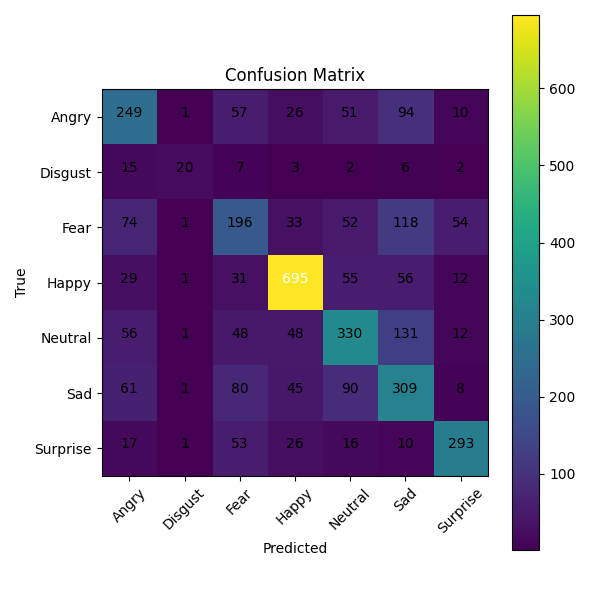
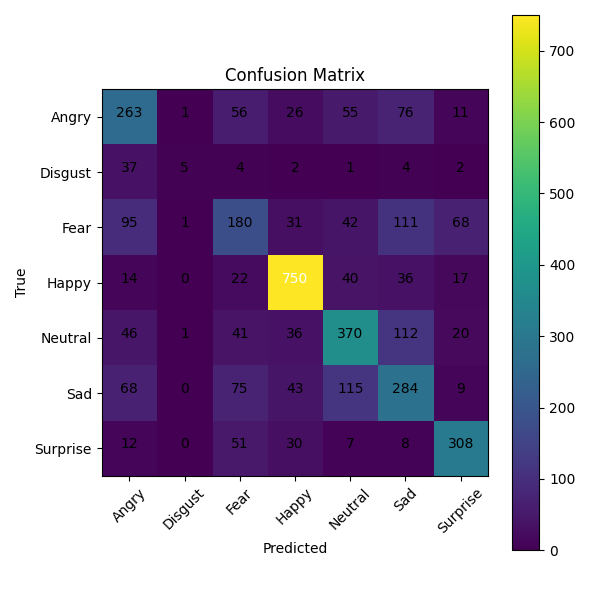
Make scripts path-independent and improve robustness
- Resolve data/model paths relative to the project root so train/test/realtime work from any working directory
- realtime: fall back to default FER-2013 labels when data/ is absent, validate label/output count, and check the camera opened
- train: ensure models/ exists before saving; drop unused import
- requirements: remove conflicting keras pin and unused deps
- Refresh README dependency list and run instructions

diff --git a/src/realtime.py b/src/realtime.py
@@ -1,19 +1,34 @@
-import os, cv2, numpy as np
+import os, sys, cv2, numpy as np
 from tensorflow.keras.models import load_model
+
+# paths anchored to project root so it runs from anywhere
+BASE_DIR = os.path.dirname(os.path.dirname(os.path.abspath(__file__)))
 
 # load model (keras > h5 fallback)
 model = None
-for p in ["../models/emotion_model.keras","../models/emotion_model.h5"]:
+for p in [os.path.join(BASE_DIR, "models", "emotion_model.keras"),
+          os.path.join(BASE_DIR, "models", "emotion_model.h5")]:
     if os.path.exists(p):
         model = load_model(p)
         print(f"Loaded model: {p}")
         break
-assert model is not None, "No saved model found."
+assert model is not None, "No saved model found. Run train.py first."
 
-# class names from your data folder (sorted so it matches generator order)
-data_train = os.path.join("..","data","train")
-EMOTIONS = sorted([d for d in os.listdir(data_train)
-                   if os.path.isdir(os.path.join(data_train,d))])
+# class names from data/train if present (sorted to match the training
+# generator's class order); otherwise fall back to the standard FER-2013
+# labels so the demo still works on a fresh clone (data/ is gitignored).
+FALLBACK_EMOTIONS = ["Angry", "Disgust", "Fear", "Happy", "Neutral", "Sad", "Surprise"]
+data_train = os.path.join(BASE_DIR, "data", "train")
+if os.path.isdir(data_train):
+    EMOTIONS = sorted([d for d in os.listdir(data_train)
+                       if os.path.isdir(os.path.join(data_train, d))])
+else:
+    EMOTIONS = FALLBACK_EMOTIONS
+    print("data/train not found; using default FER-2013 class names.")
+
+if len(EMOTIONS) != model.output_shape[-1]:
+    sys.exit(f"Class count ({len(EMOTIONS)}) != model outputs "
+             f"({model.output_shape[-1]}). Labels and model don't match.")
 print("Classes:", EMOTIONS)
 
 # face detector
@@ -21,9 +36,14 @@ face_cascade = cv2.CascadeClassifier(cv2.data.haarcascades +
                                      "haarcascade_frontalface_default.xml")
 
 cap = cv2.VideoCapture(0)
+if not cap.isOpened():
+    sys.exit("Could not open camera 0. Try VideoCapture(1) or (2).")
+
 while True:
     ok, frame = cap.read()
-    if not ok: break
+    if not ok:
+        print("Failed to read frame from camera; exiting.")
+        break
     gray = cv2.cvtColor(frame, cv2.COLOR_BGR2GRAY)
     faces = face_cascade.detectMultiScale(gray, 1.3, 5)
 

diff --git a/src/train.py b/src/train.py
@@ -1,4 +1,4 @@
-import os, numpy as np
+import os
 import tensorflow as tf
 from tensorflow.keras import Sequential
 from tensorflow.keras.layers import (Conv2D, MaxPooling2D, Flatten, Dense,
@@ -6,11 +6,14 @@ from tensorflow.keras.layers import (Conv2D, MaxPooling2D, Flatten, Dense,
 from tensorflow.keras.preprocessing.image import ImageDataGenerator
 from tensorflow.keras.callbacks import EarlyStopping, ReduceLROnPlateau, ModelCheckpoint
 
-# paths
-train_dir = os.path.join("..","data","train")
-val_dir   = os.path.join("..","data","val")
-save_keras = os.path.join("..","models","emotion_model.keras")
-save_h5    = os.path.join("..","models","emotion_model.h5")  # optional legacy
+# paths (anchored to the project root, not the current working dir,
+# so the script works whether run from repo root or from src/)
+BASE_DIR   = os.path.dirname(os.path.dirname(os.path.abspath(__file__)))
+train_dir  = os.path.join(BASE_DIR, "data", "train")
+val_dir    = os.path.join(BASE_DIR, "data", "val")
+os.makedirs(os.path.join(BASE_DIR, "models"), exist_ok=True)
+save_keras = os.path.join(BASE_DIR, "models", "emotion_model.keras")
+save_h5    = os.path.join(BASE_DIR, "models", "emotion_model.h5")  # optional legacy
 
 # data
 train_gen = ImageDataGenerator(rescale=1./255,

diff --git a/src/test.py b/src/test.py
@@ -5,10 +5,11 @@ import itertools
 from tensorflow.keras.preprocessing.image import ImageDataGenerator
 from tensorflow.keras.models import load_model
 
-# paths
-data_dir   = os.path.join("..", "data", "test")
-model_try  = [os.path.join("..","models","emotion_model.keras"),
-              os.path.join("..","models","emotion_model.h5")]
+# paths (anchored to project root so it runs from anywhere)
+BASE_DIR   = os.path.dirname(os.path.dirname(os.path.abspath(__file__)))
+data_dir   = os.path.join(BASE_DIR, "data", "test")
+model_try  = [os.path.join(BASE_DIR, "models", "emotion_model.keras"),
+              os.path.join(BASE_DIR, "models", "emotion_model.h5")]
 
 # load model (keras > h5 fallback)
 model = None
@@ -50,5 +51,6 @@ for i, j in itertools.product(range(cm.shape[0]), range(cm.shape[1])):
     plt.text(j, i, cm[i, j], horizontalalignment="center",
              color="white" if cm[i, j] > thresh else "black")
 plt.xlabel('Predicted'); plt.ylabel('True'); plt.tight_layout()
-plt.savefig(os.path.join("..","models","confusion_matrix.png"))
-print("Saved: ../models/confusion_matrix.png")
+cm_path = os.path.join(BASE_DIR, "models", "confusion_matrix.png")
+plt.savefig(cm_path)
+print("Saved:", cm_path)

diff --git a/README.md b/README.md
@@ -61,7 +61,8 @@ If your zip wasn’t split, ask for the auto-split script (70/15/15).
 
 ## 🚀 Train
 
-From the `src` folder OR provide the relative path:
+The scripts resolve paths relative to the project root, so they run the same
+whether you call them from the repo root or from inside `src/`:
 
 ```powershell
 # from repo root
@@ -139,12 +140,9 @@ angry, disgust, fear, happy, neutral, sad, surprise
 
 ```
 tensorflow>=2.10
-keras>=2.10
 opencv-python
 numpy
-pandas
 matplotlib
-seaborn
 scikit-learn
 pillow
 ```
